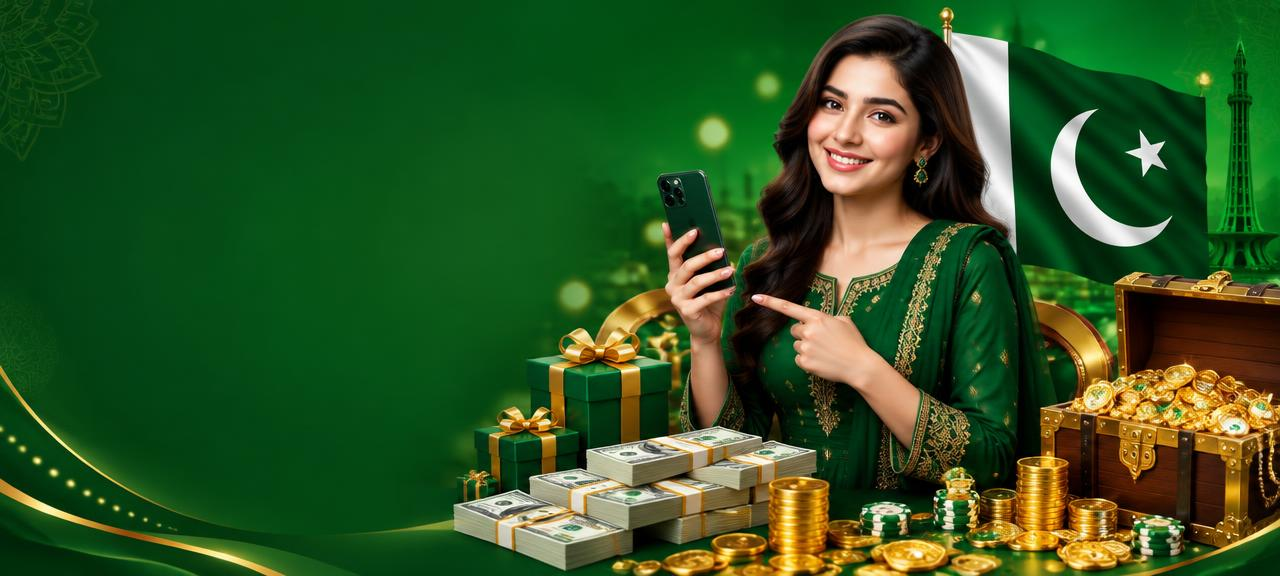
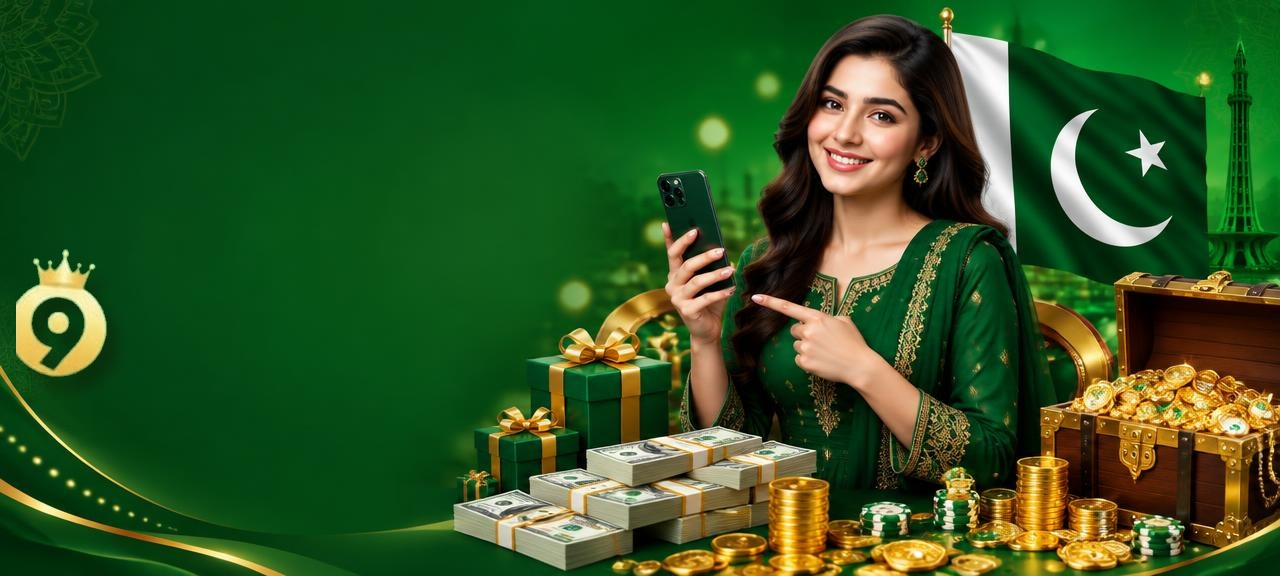
Update branding and promotion artwork

Changed region(s): [[0.0, 0.4375, 0.0938, 0.6562]]

diff --git a/vue-app/src/App.vue b/vue-app/src/App.vue
@@ -5,10 +5,7 @@
         <Menu :size="25" :stroke-width="2.4" />
       </button>
       <a class="brand" href="#" aria-label="B9 Game home" @click.prevent="goHome">
-        <svg class="brand-emblem" viewBox="0 0 42 46" role="img" aria-label="Crowned 9">
-          <path d="M7 12 3 5l8 3 5-7 5 7 8-3-4 8" fill="#fff" />
-          <path d="M12 17c0-6 4-10 11-10 9 0 14 7 14 17 0 12-7 19-17 19-5 0-9-2-12-5l5-6c2 2 4 3 7 3 5 0 8-4 9-10-2 3-5 4-9 4-6 0-11-4-11-12Zm10 0c0 3 2 5 5 5s5-2 5-5-2-5-5-5-5 2-5 5Z" fill="#fff" />
-        </svg>
+        <img :src="brandLogo" class="brand-emblem" alt="B9 Game logo" />
         <span class="brand-wordmark">B9 Game</span>
       </a>
 
@@ -253,6 +250,7 @@ import mines from "./assets/g-mines.jpg";
 import fish from "./assets/g-fish.jpg";
 import slot from "./assets/g-slot.jpg";
 import jackpotDecoration from "./assets/jackpot-indian-side.jpg";
+import brandLogo from "./assets/brand-logo.jpg";
 
 type Category = "Popular" | "PG Slot" | "Spribe" | "Fishing" | "InOut";
 type Modal = "deposit" | "menu" | "promo" | "profile" | "inbox" | null;
@@ -439,7 +437,7 @@ button { cursor: pointer; }
 .header-icon { display: grid; flex: 0 0 auto; place-items: center; padding: 0; border: 0; color: inherit; background: none; }
 .menu-button { width: 25px; }
 .brand { display: flex; min-width: 0; flex: 0 1 auto; align-items: center; gap: 1px; color: white; text-decoration: none; }
-.brand-emblem { width: 37px; height: 42px; flex: 0 0 auto; }
+.brand-emblem { width: 37px; height: 42px; flex: 0 0 auto; object-fit: cover; object-position: center; border-radius: 4px; }
 .brand-wordmark { white-space: nowrap; font-size: clamp(15px, 4.3vw, 20px); font-weight: 850; letter-spacing: -.7px; }
 .header-actions { display: flex; min-width: 0; flex: 1; align-items: center; justify-content: flex-end; gap: 5px; }
 .balance-button, .deposit-button {
